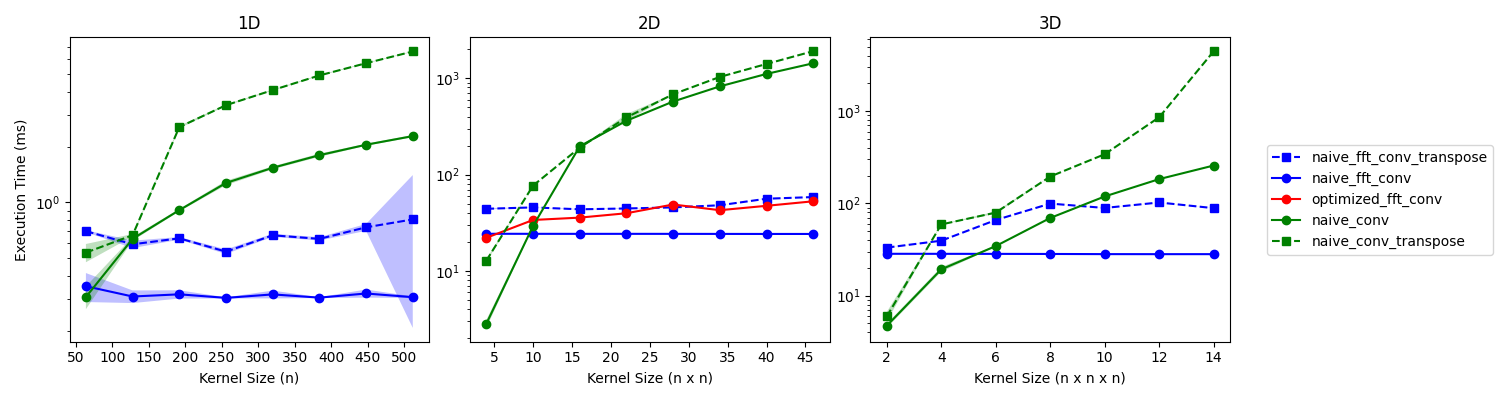
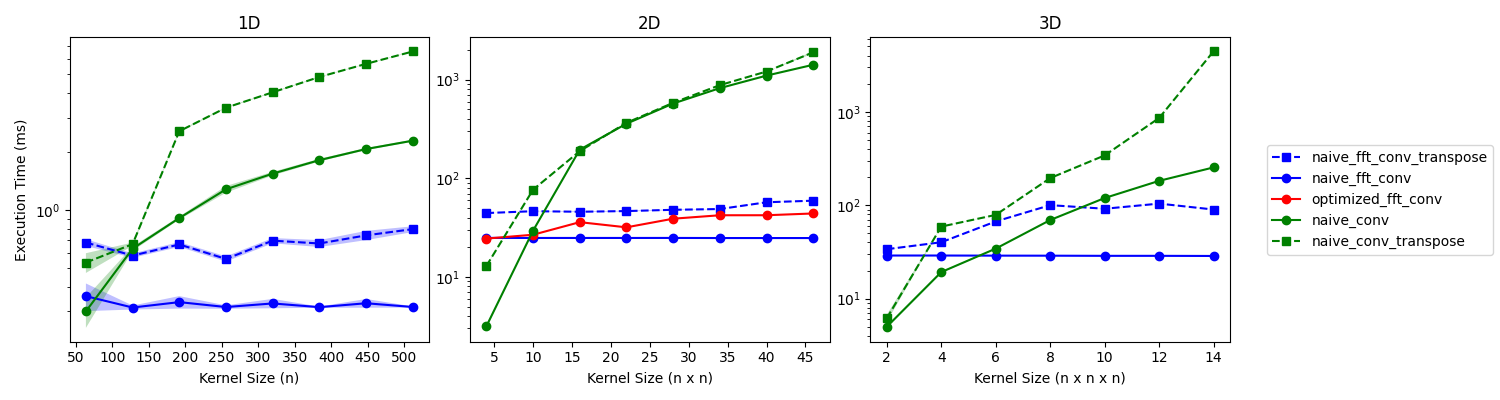
Reduce the number of unnecessary blocks

diff --git a/fft_conv_pytorch/optimized.py b/fft_conv_pytorch/optimized.py
@@ -1,3 +1,4 @@
+from collections import defaultdict
 from functools import lru_cache
 from typing import Iterable, Tuple, Union
 
@@ -10,32 +11,92 @@ from torch.fft import irfftn, rfftn
 from .utils import to_ntuple
 
 
+class prod:
+    def __init__(self):
+        self.items = defaultdict(lambda: 1)
+        self.index = 0
+
+    def reset(self):
+        self.index = 0
+
+    def put(self, x):
+        self.items[self.index] = self.items[self.index] * x
+        self.index += 1
+
+    def get(self):
+        value = self.items[self.index]
+        self.index += 1
+        return value
+
+
+class accm(prod):
+    def __init__(self):
+        self.items = defaultdict(lambda: 0)
+        self.index = 0
+
+    def put(self, x):
+        self.items[self.index] = self.items[self.index] + x
+        self.index += 1
+
+
 @lru_cache(1024)
 def opt_blocksize(input_size, kernel_size, speed_impt=0.5):
-    def prod(X):
-        result = X[0]
-        for x in X[1:]:
-            result = result * x
-        return result
+    K = np.asarray(kernel_size[2:])
+    S = np.asarray(input_size[2:])
 
-    kernel_cost = []
-    signal_cost = []
-    logs = []
-    for i, (s, k) in enumerate(zip(input_size[2:], kernel_size[2:])):
+    cost = prod()
+    log_cost = accm()
+    cost.put(np.prod(kernel_size[:2]))
+    cost.put(np.prod(input_size[:2]))
+    cost.put(input_size[0] * np.prod(kernel_size[:2]))
+    cost.put(input_size[0] * kernel_size[0])
+
+    cost.put(np.prod(kernel_size[:2]))
+    cost.put(np.prod(input_size[:2]))
+    cost.put(input_size[0] * kernel_size[0])
+    cost.put(input_size[0] * kernel_size[0])
+
+    for i, (s, k) in enumerate(zip(S, K)):
         shape = [1] * (len(input_size) - 2)
         shape[i] = -1
-        padding = k // 2 * 2
-        block_size = np.arange(1, s + 1).reshape(*shape)
-        block_count = (s - 1) // block_size + 1
-        log = np.ceil(np.log2(block_size + padding))
-        kernel_cost.append(2**log)
-        signal_cost.append(block_count * 2**log)
-        logs.append(log + 1)
-    memo = prod(input_size[:2]) * prod(signal_cost)
-    memo += prod(kernel_size[:2]) * prod(kernel_cost)
-    time = memo * sum(logs)
-    tradoff = time ** (speed_impt) * memo ** (1 - speed_impt)
+        B = np.arange(1, s + 1).reshape(*shape)
+
+        BS = B + k - 1  # active block size
+        GP = (s - k) // B * B + BS - s  # Global padding
+        BC = (s + GP) // B
+        log = np.ceil(np.log2(BS))
+        kernel_cost = 2**log
+        signal_cost = BC * 2**log
+
+        cost.reset()
+        log_cost.reset()
+
+        log_cost.put(log)
+        cost.put(kernel_cost)
+        cost.put(signal_cost)
+        cost.put(BC * BS)
+        cost.put(signal_cost)
+
+        cost.put(kernel_cost)
+        cost.put(signal_cost)
+        cost.put(BC * BS)
+        cost.put(signal_cost)
+    cost.reset()
+    log_cost.reset()
+
+    log_cost = log_cost.get()
+    time_cost = [cost.get() for _ in range(4)]
+    time_cost[0] *= log_cost
+    time_cost[1] *= log_cost
+    time_cost[3] *= log_cost
+    time_cost = sum(time_cost)
+
+    memo_cost = [cost.get() for _ in range(4)]
+    memo_cost = sum(memo_cost)
+
+    tradoff = time_cost ** (speed_impt) * memo_cost ** (1 - speed_impt)
     index = np.argmin(tradoff)
+
     block_size = []
     for s in input_size[2:][::-1]:
         block_size.append(index % s + 1)
@@ -111,7 +172,7 @@ def fft_conv(
     ST = np.asarray(list(stride_), dtype=np.int64)
     PD = np.asarray(list(padding_), dtype=np.int64)
     BS = B + K - 1  # active block size
-    GP = ((S + 2 * PD) - 1) // B * B + BS - S  # Global padding
+    GP = (S + 2 * PD - K) // B * B + BS - S  # Global padding
     FFTss = (BS + 1) // 2 * 2  # fft signal size
     TRG = S + PD * 2 - K + 1  # target output shape
 
@@ -123,8 +184,8 @@ def fft_conv(
     SP = np.asarray(signal_pad.shape[2:])
     unfold_signal = torch.nn.functional.unfold(
         signal_pad,
-        kernel_size=BS,
-        stride=B,
+        kernel_size=BS.tolist(),
+        stride=B.tolist(),
     ).unflatten(1, [signal.size(1)] + BS.tolist())
 
     signal_fr = rfftn(unfold_signal, FFTss.tolist(), dim=tuple(range(2, n + 2)))
@@ -134,10 +195,10 @@ def fft_conv(
     output = output[[slice(None)] * 2 + [slice(None, b) for b in B]]
     output = torch.nn.functional.fold(
         output.flatten(1, n + 1),
-        output_size=((SP - BS) // B + 1) * B,
-        kernel_size=B,
+        output_size=(((SP - BS) // B + 1) * B).tolist(),
+        kernel_size=B.tolist(),
         padding=0,
-        stride=B,
+        stride=B.tolist(),
     )
     output = output[[slice(None)] * 2 + [slice(None, t, s) for t, s in zip(TRG, ST)]]
 

diff --git a/doc/scripts/generate_benchmark_plot.py b/doc/scripts/generate_benchmark_plot.py
@@ -30,13 +30,15 @@ def _get_conv_inputs(
     out_channels: int = 8,
 ):
     dims = ndim * [input_size]
-    signal = torch.randn(batch_size, in_channels, *dims)
+    signal = torch.randn(batch_size, in_channels, *dims, device="cuda")
 
     kernel_size = to_ntuple(kernel_size, n=signal.ndim - 2)
-    weight = torch.randn(out_channels, in_channels, *kernel_size, requires_grad=True)
-    bias = torch.randn(out_channels, requires_grad=True)
+    weight = torch.randn(
+        out_channels, in_channels, *kernel_size, requires_grad=True, device="cuda"
+    )
+    bias = torch.randn(out_channels, requires_grad=True, device="cuda")
 
-    return signal.cuda(), weight.cuda(), bias.cuda()
+    return signal, weight, bias
 
 
 def benchmark_conv(
